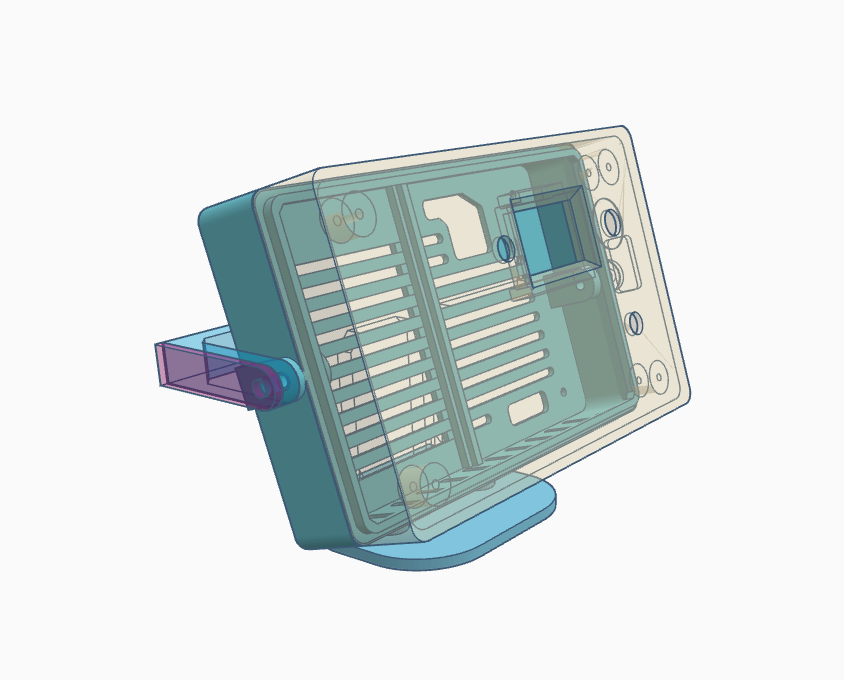
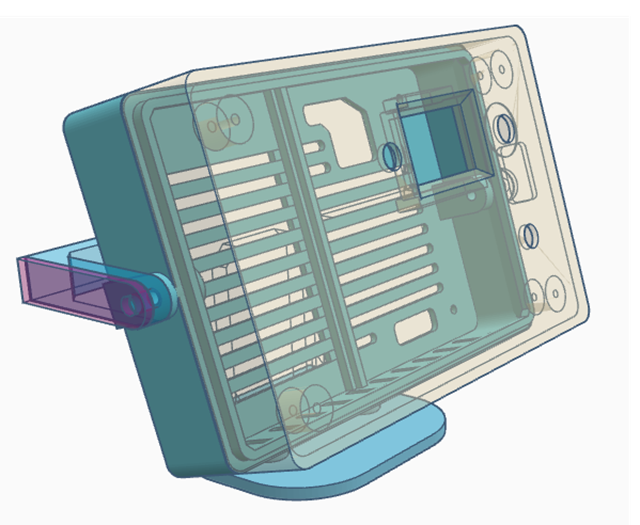
some pics

diff --git a/README.md b/README.md
@@ -4,6 +4,7 @@
 
  - Implement USB stack
  - PID tuning over USB and/or UART
+ - open loop simple pwm speed is not implemented fully
 
 ## Software Features
 
@@ -31,3 +32,17 @@
 ## Controller schematics and PCB
 
 https://oshwlab.com/sascha23095123423/project_dzierqaj
+
+## STL files for motor mount and enclosure
+
+[STL files](stl/STL.md)
+
+## Some pictures
+
+![STL files and MT6701](stl/stl_files.png)
+
+![PCB front](stl/pcb1.JPG)
+
+![PCB back](stl/pcb2.JPG)
+
+![Enclosure and motor](stl/enclosure_and_motor.jpg)

diff --git a/stl/STL.md b/stl/STL.md
@@ -28,3 +28,9 @@ https://www.tinkercad.com/things/fNIPaWNxDLo-motor-controller-enclosure
 ![MT6701 Motor Mount](mt6701_mount.png)
 
 ![MT6701 Module](mt6701.png)
+
+![PCB front](pcb1.JPG)
+
+![PCB back](pcb2.JPG)
+
+![Enclosure and motor](enclosure_and_motor.jpg)
